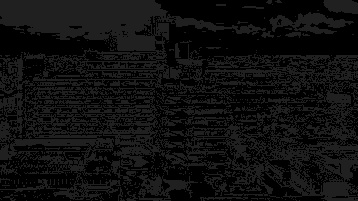
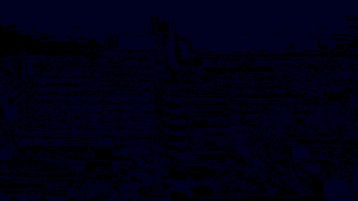
#Ab2

diff --git a/AB02.py b/AB02.py
@@ -9,7 +9,6 @@ def contrast(img, inputAlpha):
     new_img = np.zeros(img.shape, img.dtype)
 
     alpha = inputAlpha  #Einfache Konstraststeuerung
-    beta = 0 # Einfache Helligkeitssteuerung
 
     #Ausführen der Anpassung
     for y in range(img.shape[0]):
@@ -36,35 +35,35 @@ def blur(img):
     return blurImg
 
 
-# img = cv2.imread('Utils/LennaCol.png')
-# imgGray = cv2.cvtColor(img, cv2.COLOR_RGB2GRAY)
-# bright_contrast_img = contrast(imgGray, 1.935)
-# dark_contrast_img = contrast(imgGray, 0.485)
-# bright_luminance_img = luminance(imgGray, 115)
-# dark_luminance_img = luminance(imgGray, -51.5)
-# blur_img = blur(imgGray)
+img = cv2.imread('Utils/LennaCol.png')
+imgGray = cv2.cvtColor(img, cv2.COLOR_RGB2GRAY)
+bright_contrast_img = contrast(imgGray, 1.935)
+dark_contrast_img = contrast(imgGray, 0.485)
+bright_luminance_img = luminance(imgGray, 115)
+dark_luminance_img = luminance(imgGray, -51.5)
+blur_img = blur(imgGray)
 
-# cv2.imshow('Originial', imgGray)
-# cv2.imshow('Bright Contrast', bright_contrast_img)
-# cv2.imshow('Dark Contrast', dark_contrast_img)
-# cv2.imshow('Blur', blur_img)
-# cv2.imshow('Bright Luminance', bright_luminance_img)
-# cv2.imshow('Dark Luminance', dark_luminance_img)
+cv2.imshow('Originial', imgGray)
+cv2.imshow('Bright Contrast', bright_contrast_img)
+cv2.imshow('Dark Contrast', dark_contrast_img)
+cv2.imshow('Blur', blur_img)
+cv2.imshow('Bright Luminance', bright_luminance_img)
+cv2.imshow('Dark Luminance', dark_luminance_img)
 
 
-# result = ssim(imgGray, bright_contrast_img)
-# result1 = ssim(imgGray, dark_contrast_img)
-# result2 = ssim(imgGray, blur_img)
-# result3 = ssim(imgGray, bright_luminance_img)
-# result4 = ssim(imgGray, dark_luminance_img)
+result = ssim(imgGray, bright_contrast_img)
+result1 = ssim(imgGray, dark_contrast_img)
+result2 = ssim(imgGray, blur_img)
+result3 = ssim(imgGray, bright_luminance_img)
+result4 = ssim(imgGray, dark_luminance_img)
 
-# print('Result Bright Contrast:', result)
-# print('Result Dark Contrast:', result1)
-# print('Result Blur:', result2)
-# print('Result Bright Luminance:' , result3)
-# print('Result Dark Luminance:' , result4)
+print('Result Bright Contrast:', result)
+print('Result Dark Contrast:', result1)
+print('Result Blur:', result2)
+print('Result Bright Luminance:' , result3)
+print('Result Dark Luminance:' , result4)
 
-# cv2.waitKey()
+cv2.waitKey()
 
 #Quellen:
 # https://scikit-image.org/docs/dev/auto_examples/transform/plot_ssim.html
@@ -75,7 +74,7 @@ def blur(img):
 
 #Steganographie: Binärbild in Blau-Kanal
 
-grayImg = cv2.imread('Utils/th.jpg', cv2.IMREAD_GRAYSCALE)
+grayImg = cv2.imread('Utils/th.jpg', cv2.IMREAD_COLOR)
 
 bitImages = []
 for bit in range(8):
@@ -88,33 +87,30 @@ for i, bitImages in enumerate(bitImages):
 
 # Convert cover image to gray-scale
 cover = Image.open("Utils/th.jpg").convert('L')
-
 data_c = np.array(cover)
 
 # Convert image to 1-bit pixel, black and white and resize to cover image
 secret = Image.open("Utils/bit_0Code.jpg").convert('1')
-
-
 data_s = np.array(secret, dtype=np.uint8)
 
 # Rewrite LSB
 res = data_c & ~1 | data_s
 
-new_img = Image.fromarray(res).convert("L")
-new_img.save("Utils/cover-secret.jpg")
+new_img = Image.fromarray(res).convert('RGB')
+new_img.save("Utils/cover-secret1.jpg")
+rgb = cv2.imread("Utils/cover-secret1.jpg", cv2.IMREAD_COLOR)
 
-secret_img = cv2.imread("Utils/cover-secret.jpg", cv2.IMREAD_GRAYSCALE)
+cv2.imshow("Original", grayImg)
+cv2.imshow("Original + Code", rgb)
 
-cv2.imshow("Test", grayImg)
-cv2.imshow("Code", secret_img)
+#result = ssim(grayImg, secret_img)
 
-result = ssim(grayImg, secret_img)
-
-print('Result Bright Contrast:', result)
+#print('Result Bright Contrast:', result)
 
 cv2.waitKey()
 
-
+#Quellen:
+# https://medium.com/@stephanie.werli/image-steganography-with-python-83381475da57
 
 # lsbImg = cv2.imread('Utils/bit_0.png')
 
